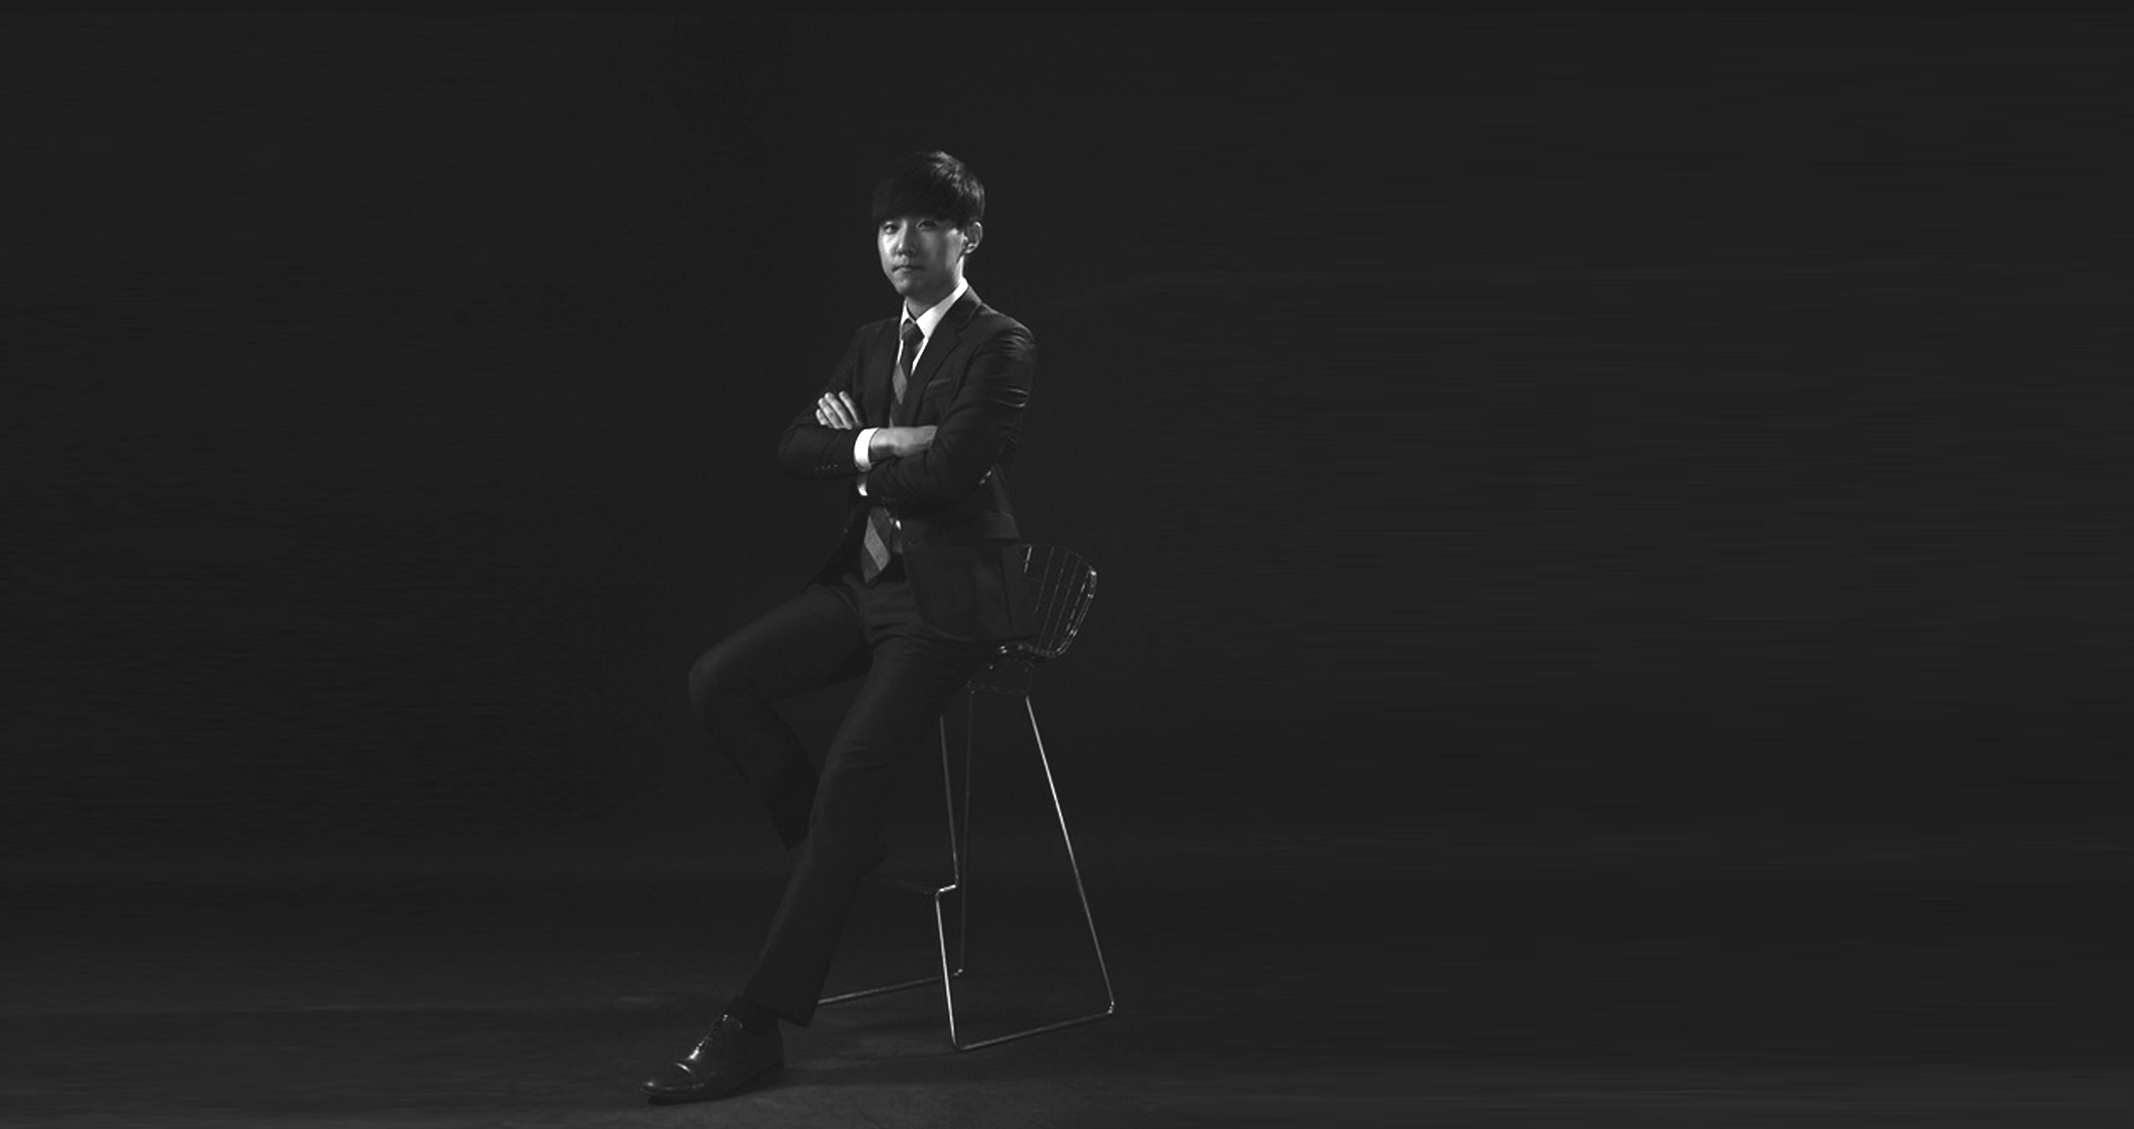
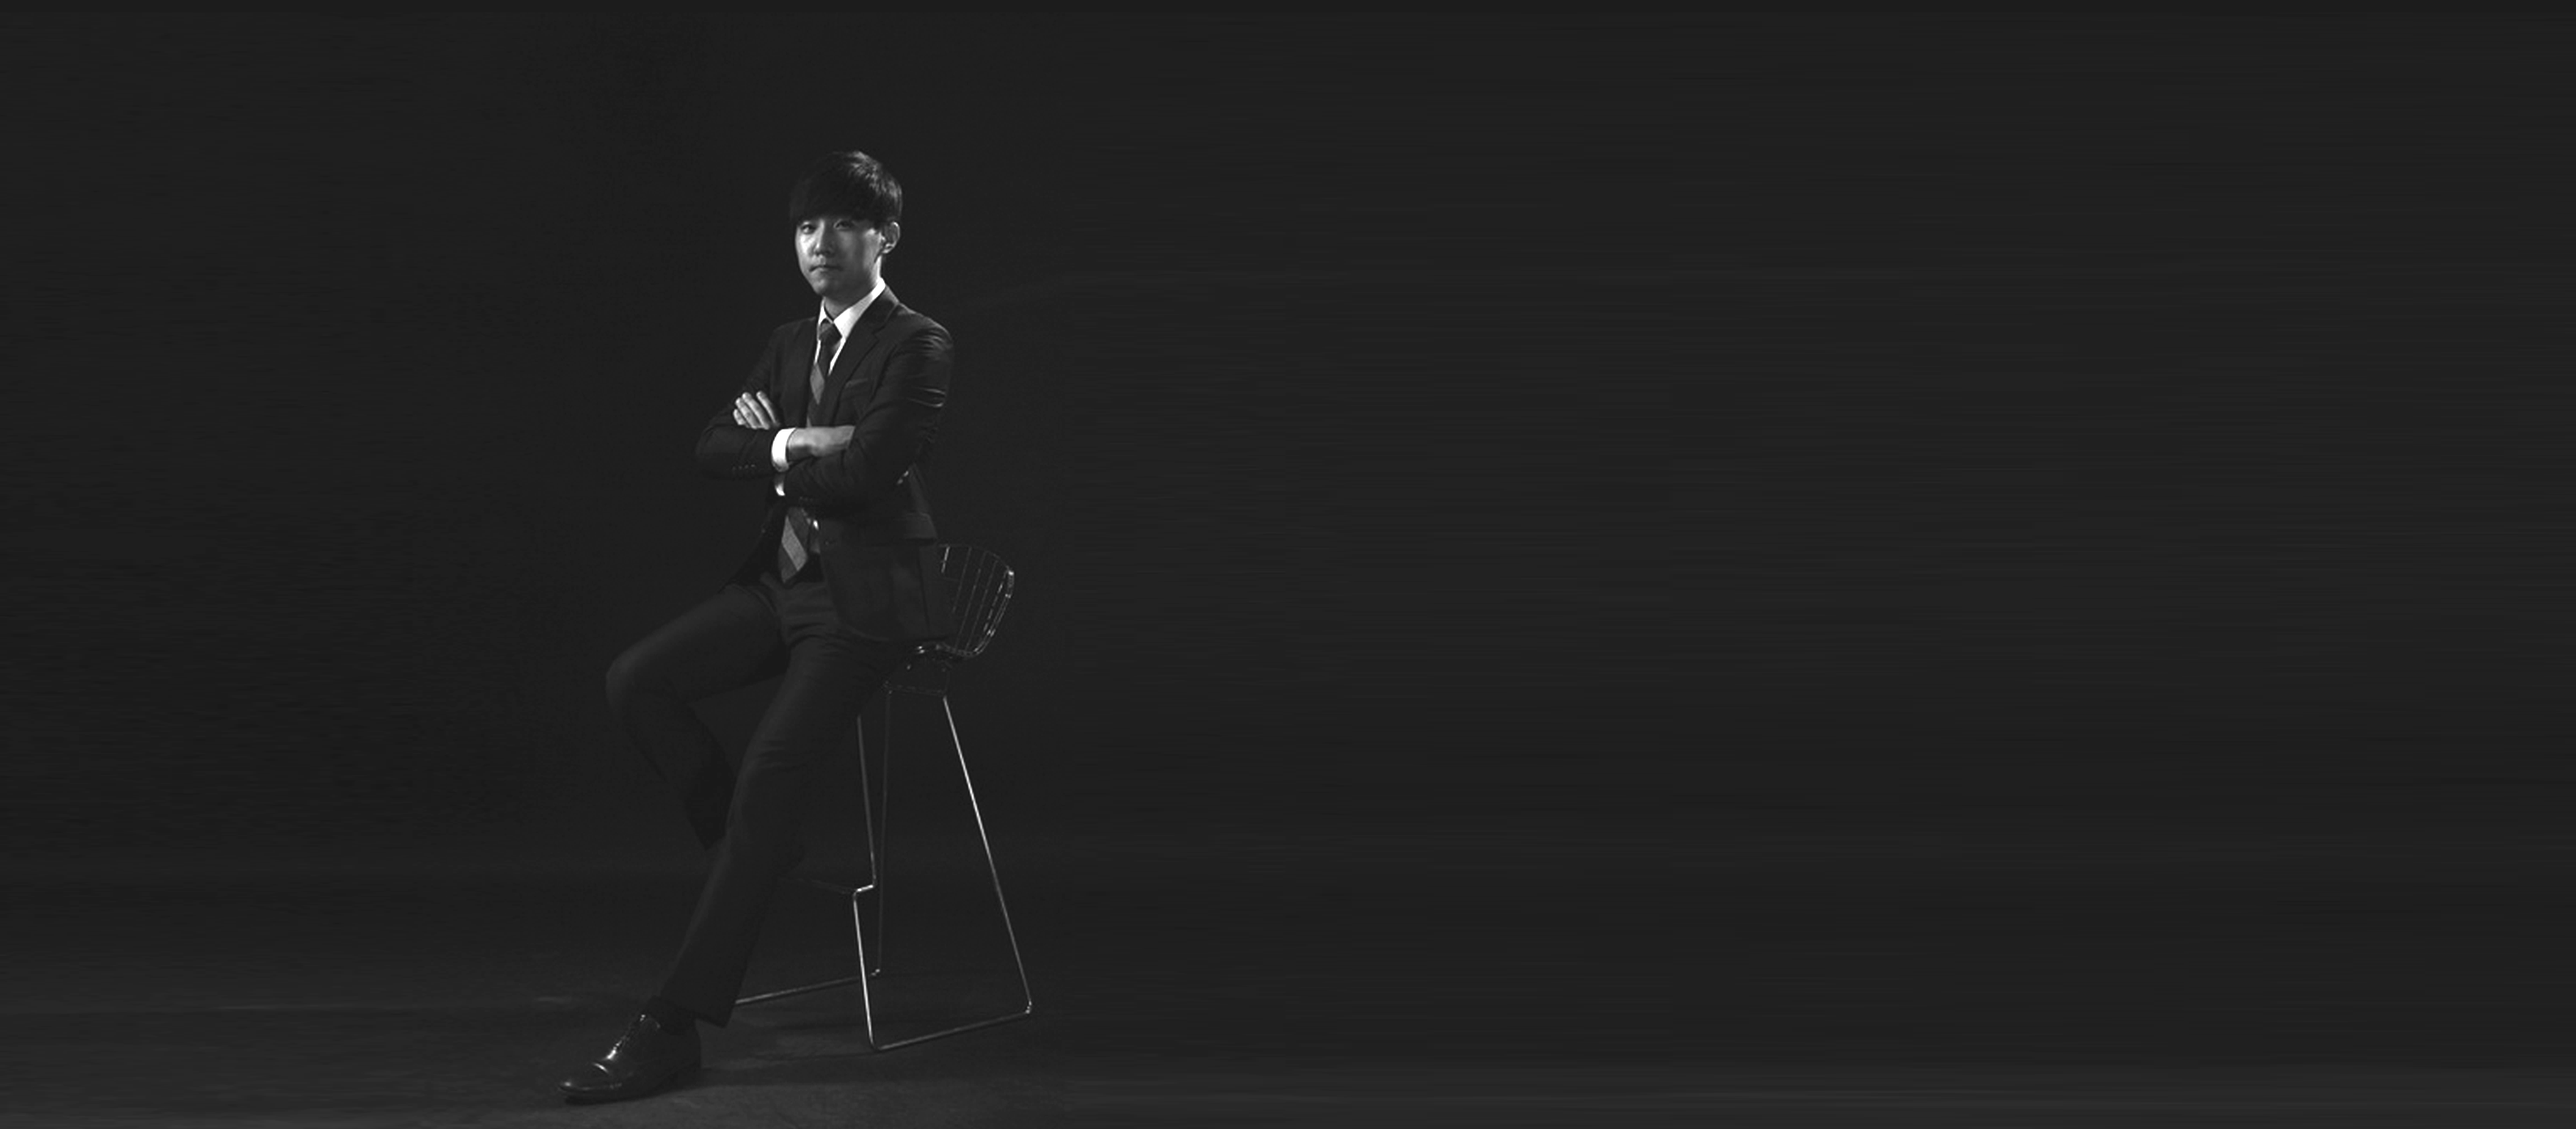
bg.png, style.css -포트폴리오 배경 이미지 반응형 조정.

diff --git a/public/stylesheets/style.css b/public/stylesheets/style.css
@@ -1406,16 +1406,17 @@ ul.info-list li strong {
   font-weight: 700;
 }
 
-
+@media (min-width:2150px) {
+  .home {
+    background: url(../images/bg.png) #333 15% 50%;
+    background-size: contain;
+    background-repeat: no-repeat;
+  }
+}
 /* -------------------------
         9. RESPONSIVE
 ------------------------- */
 @media (min-width:1880px) {
-  .home{
-    background: url(../images/bg.png) #333 15% 100%;
-    background-size: contain;
-    background-repeat: no-repeat;
-  }
   .name-block {
     -ms-transform: rotate(-34deg);
     -webkit-transform: rotate(-34deg);
@@ -1470,17 +1471,9 @@ ul.info-list li strong {
     left: 700px;
   }
 }
-
-@media (min-width:1415px) and (max-width:1880px) {
-  .home{
-    background: url(../images/bg.png) #1e1e1e 30% 100%;
-    background-size: contain;
-    background-repeat: no-repeat;
-  }
-}
 @media (min-width:1280px) and (max-width:1415px) {
   .home{
-    background: url(../images/bg.png) #333 50% 100%;
+    background: url(../images/bg.png) #333 20% 100%;
     background-size: cover;
   }
 }
@@ -1529,7 +1522,7 @@ ul.info-list li strong {
 
 @media (min-width:1025px) and (max-width:1280px) {
   .home{
-    background: url(../images/bg.png) #333 50% 100%;
+    background: url(../images/bg.png) #333 20% 100%;
     background-size: cover;
   }
   .name-block {
@@ -1747,7 +1740,7 @@ ul.info-list li strong {
 @media (max-width:768px) {
 
   .home {
-    background: url(../images/bg.png) #333 30% 100%;
+    background: url(../images/bg.png) #333 20% 100%;
     background-size:cover;
   }
 
